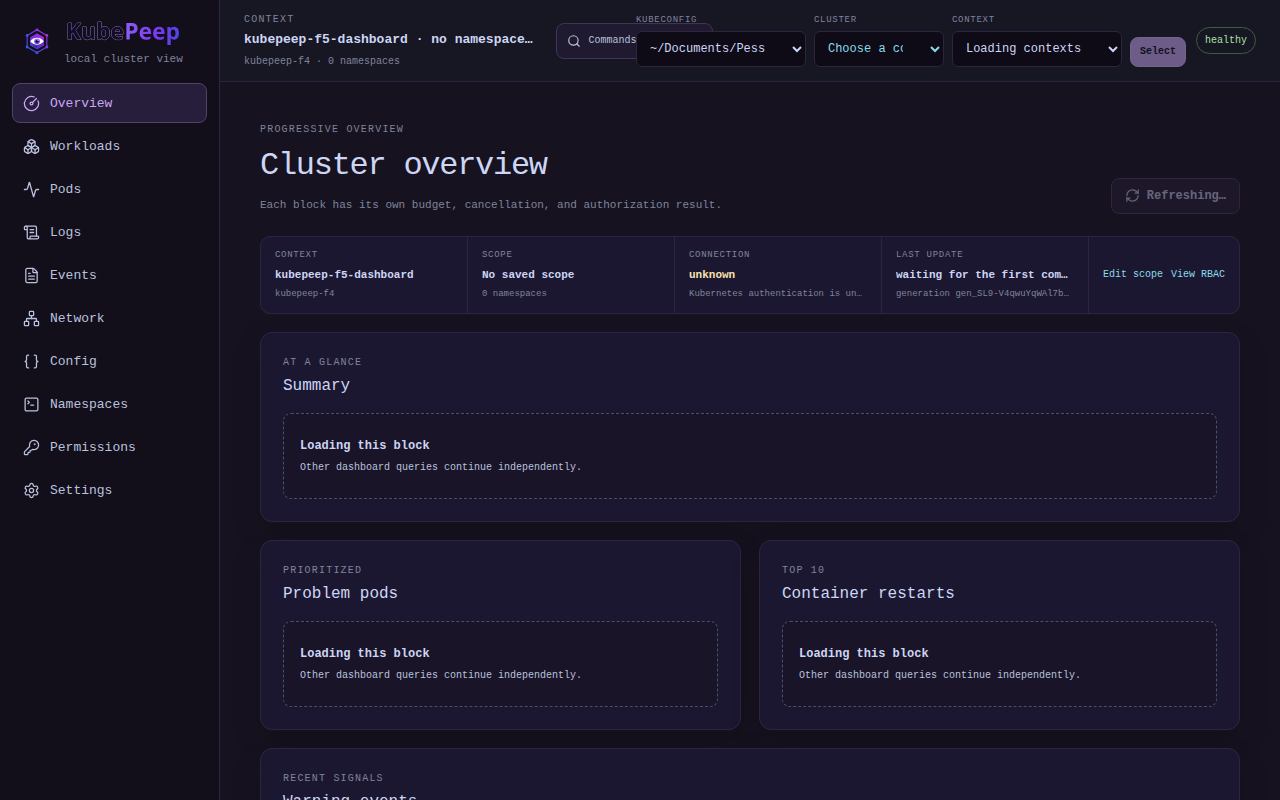
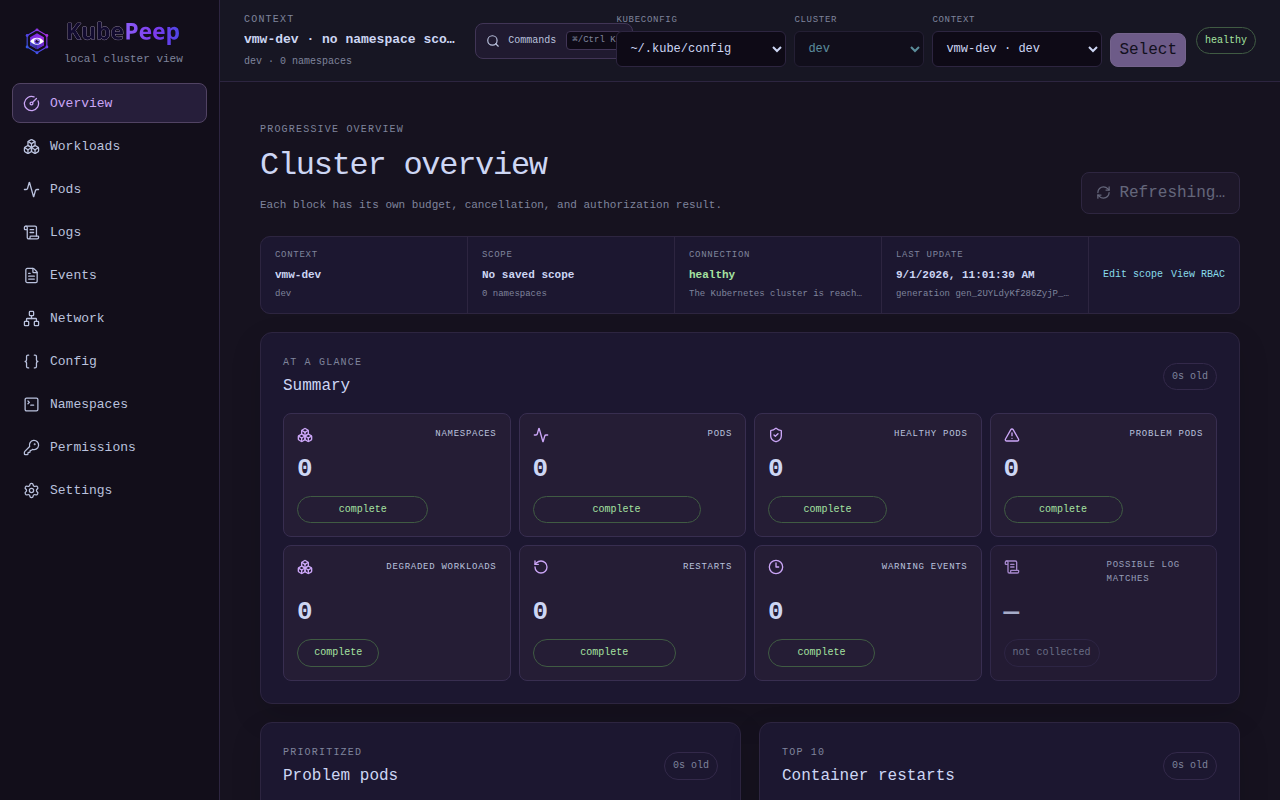
docs: record phase 0-6 execution results in plan
- Mark acceptance checklist with per-phase outcomes, deferred items

  (F4-02, partial observability, phase 7 backlog) and gate results.

- Add execution status header to plan README with commit per phase.

- Refresh overview/pods screenshots from the final smoke run against the

  Kind cluster.

diff --git a/plan/10-acceptance-checklist.md b/plan/10-acceptance-checklist.md
@@ -93,3 +93,65 @@
 - [ ] Release candidate criada e instaladores testados.
 - [ ] Matriz MVP 27/27.
 - [ ] Matriz UX avançada conforme escopo da Fase 9.
+
+---
+
+## 10. Resultado da execução (2026-09-01)
+
+### Fase 0 — ✅ concluída (`deb4d02`)
+
+- F0-01 ✅ `TestGenerationUsesActivityIdleDeadlineAndCancelsPreviousWork` estabilizado (timer parado antes do reset + margens); port-forward cleanup com retry no probe.
+- F0-02/F0-03 ✅ `context.Background()` removido dos serviços de ação; root context propagado; cancelamento por request/geração/shutdown.
+- F0-05 ✅ mutação de `os.Stderr` localizada em helper com restauração via `defer`.
+- F0-06 ✅ race latente adicional em `Generation.Stream` corrigida (timer sob mutex) na F4.
+
+### Fase 1 — ✅ concluída (`41a2adf`, `6681f70`)
+
+- F1-01 ✅ tokens em `web/src/tokens.css` (`@theme` Tailwind 4).
+- F1-02 ✅ componentes atômicos em `web/src/components/ui/` (Button, Input, Select, Badge, Card, Tabs, EmptyState, Skeleton, DataTable, Drawer) e migração dos componentes de tela.
+- F1-03 ✅ SVGs da marca integrados (BrandLogo/BrandWordmark na sidebar).
+- F1-04 ✅ `DataTable` em uso nas listas de recursos, dashboard e permissões.
+
+### Fase 2 — ✅ concluída (`17e53fe`)
+
+- F2-01 ✅ parser composto (`termo -excluido "frase exata"`) no backend com testes; filtros de lista inicializam pela URL.
+- F2-02 ✅ `Drawer` lateral para detalhes, preservando lista e deep links.
+- F2-03 ✅ YAML com highlight (`react-syntax-highlighter`, PrismLight + vscDarkPlus); Secret continua sem YAML.
+- F2-04 ✅ logs: pause/continue com buffer, highlight JSON, filtro local por nível.
+
+### Fase 3 — ✅ concluída (`6e142bd`)
+
+- F3-01 ✅ cards navegam para `/pods?problematic=true`, `/pods?restarts=gte3`, `/events?status=Warning` etc.
+- F3-02 ✅ seção "Namespace health" no dashboard (backend já existia; frontend consumido com links por namespace).
+- F3-03 ✅ idade dos dados por bloco com badge "stale" após 60s.
+
+### Fase 4 — ✅ concluída com ressalva (`e010dcb`)
+
+- F4-01 ✅ (forma pragmática) teste arquitetural em `internal/ports` impede handlers de importarem adapters/integração; pacote `ports` sem dependências.
+- F4-02 ⏸ **adiado**: consolidação dashboard/resources é refactor de alto risco; documentada como follow-up.
+- F4-03 ✅ cobertura: adapters/kubernetes 53%→91,6%; kubernetesruntime 41,4%→75,3% (alvo ≥70%).
+
+### Fase 5 — ✅ essencial concluída (`f8dd8a6`)
+
+- O-01 ✅ `duration_ms` numérico no schema de logs.
+- Métricas ✅ registro próprio allowlisted + middleware de requests + `/metrics` opt-in (default off, loopback), com testes de ausência/Presença.
+- `docs/observability.md` ✅.
+- ⏸ adiados: O-02..O-05 parciais, spans OTel (O-06..O-09), checks de observabilidade no `doctor` (F5-04).
+
+### Fase 6 — ✅ concluída (`02d008e`)
+
+- F6-01 ✅ testes de `internal/application.Compose` (validações, /health, cleanups, resiliência sem kubeconfig).
+- F6-02..F6-04 ✅ `docs/design-system.md`, `docs/rbac-requirements.md`, `docs/observability.md`, `docs/architecture.md` atualizado.
+
+### Gates transversais no fechamento
+
+| Gate | Resultado |
+| --- | --- |
+| G-01 `go test -count=1 ./...` | ✅ 956 testes, 37 pacotes |
+| G-02 `go test -race` (pacotes internos rodados durante as fases) | ✅ |
+| G-03 `go vet` | ✅ limpo |
+| G-04 frontend lint/typecheck/test/build | ✅ (79 Vitest) |
+| G-07 `scripts/security_check.sh HEAD` | ✅ em todos os pushes |
+| E2E smoke manual | ✅ app + Kind `kubepeep-f4`, screenshots atualizados |
+
+⏸ G-08/G-09/G-10 (harness Kind completo, Playwright E2E dedicado, build desktop) permanecem para o pipeline de release.

diff --git a/plan/README.md b/plan/README.md
@@ -3,6 +3,10 @@
 > **Status:** revisão técnica, funcional e visual concluída em 2026-08-31.
 > **Base:** HEAD `c7e291d` (`feat: desktop support and security hardening`).
 > **Objetivo:** transformar os achados da revisão em um plano executável de melhorias, preservando a identidade minimalista do KubePeep e aproximando a experiência de referência do Aptakube sem copiá-la.
+>
+> **Execução (2026-09-01):** Fases 0–6 concluídas e publicadas no `main`.
+> Commits: F0 `deb4d02` · F1 `41a2adf`+`6681f70` · F2 `17e53fe` · F3 `6e142bd` · F4 `e010dcb` · F5 `f8dd8a6` · F6 `02d008e`.
+> Itens deliberadamente adiados: F4-02 (consolidação dashboard/resources — refactor de alto risco, feito como follow-up separado), O-02..O-08 parciais (OTel spans e correlação request_id) e toda a Fase 7 (evoluções futuras P3).
 
 ## 1. Propósito deste plano
 
